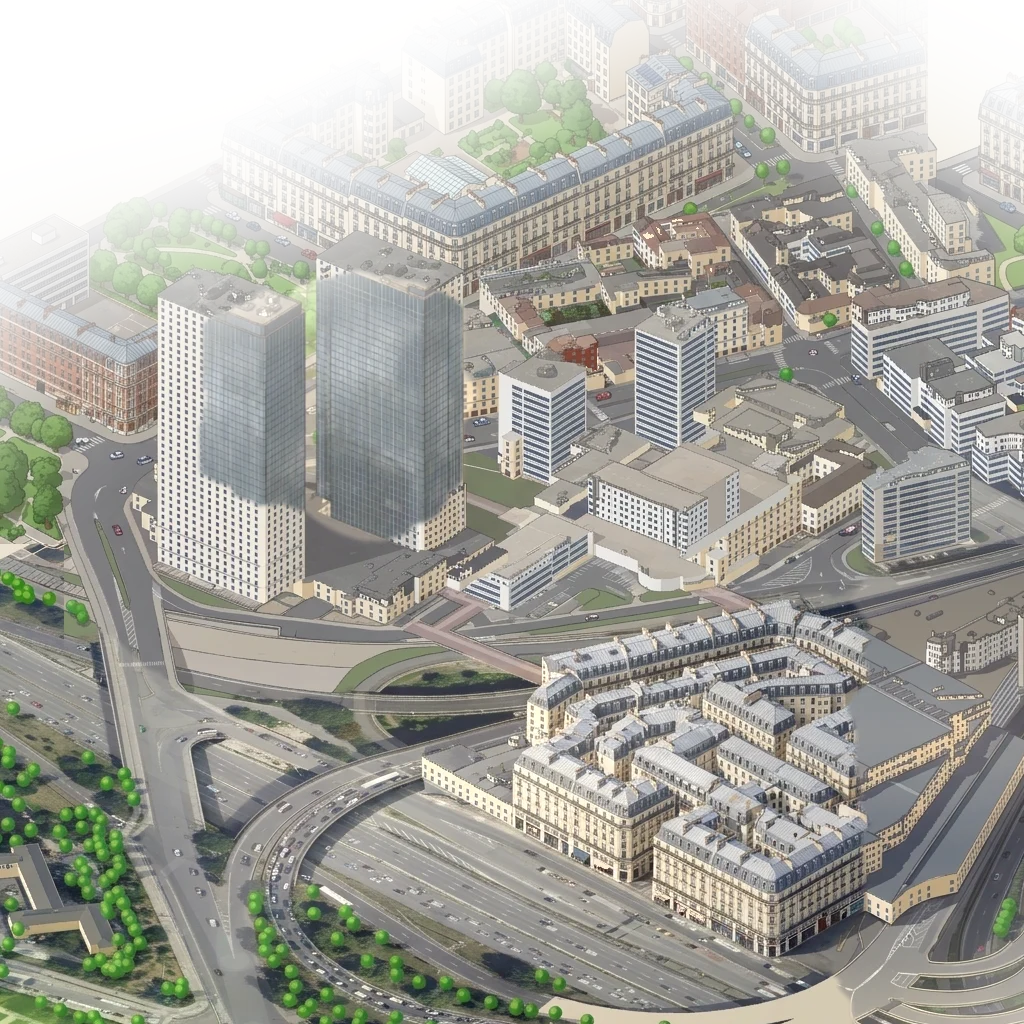
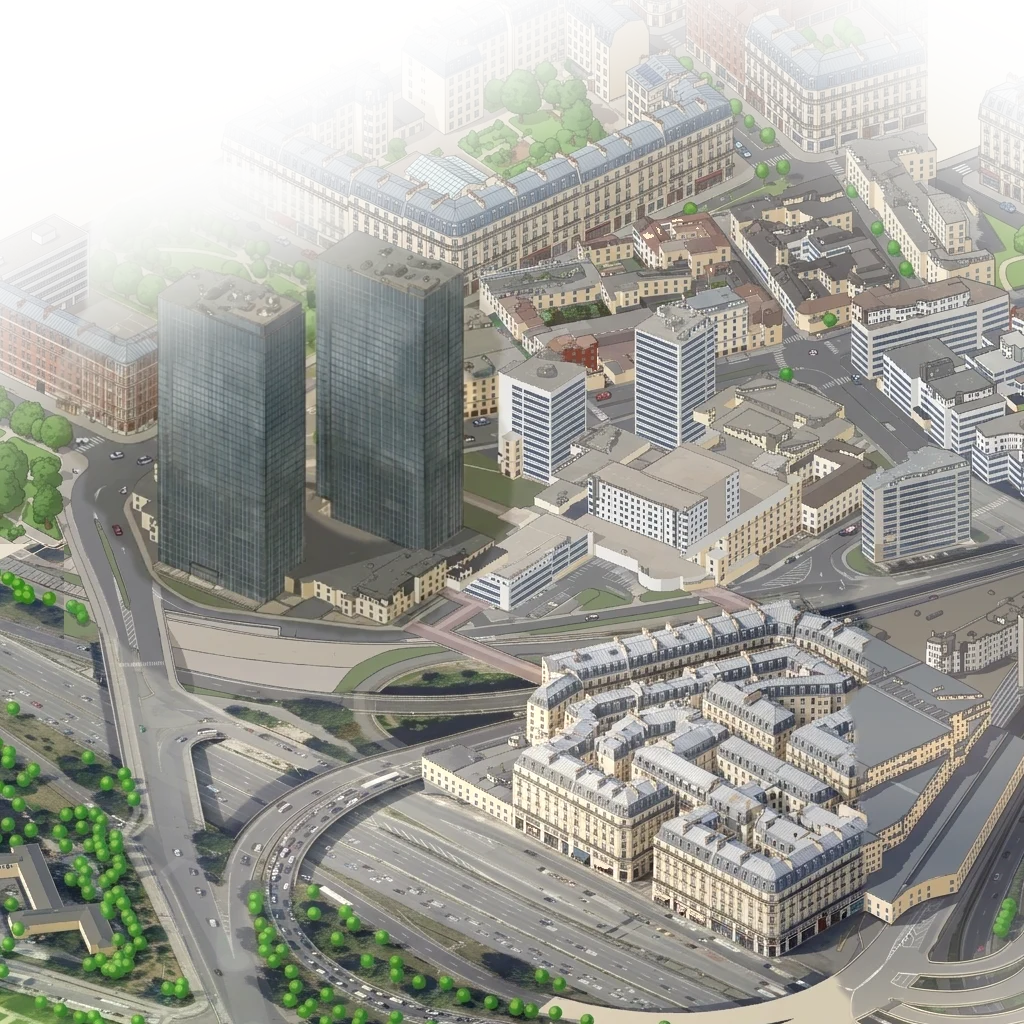
Keep the map responsive while the city loads; a loading pill; Mercuriales
- The city is built in slices of about 25 ms with pauses between, so the
  painted map keeps panning and zooming while it loads: the 2.4 s freeze
  is gone (two ~0.4 s blips remain: parsing the data, starting traffic).
- A station-plate pill at the bottom shows the download, then building
  the city, then starting the traffic.
- Tours Mercuriales repainted dark glass from top to bottom.

Changed region(s): [[0.0625, 0.1875, 0.5, 0.625]]

diff --git a/src/model.ts b/src/model.ts
@@ -301,7 +301,20 @@ function classify(bd: BdRow | undefined, kind: string, h: number, area: number, 
 }
 
 /** Finds, for each building, the BD TOPO record whose centroid lies inside it (tallest wins). */
-function matchBdTopo(rows: BdRow[], rings: Float64Array[][], k: number): (BdRow | undefined)[] {
+/**
+ * Yields to the browser after about 25 ms of work, so the painted map keeps
+ * panning, zooming and drawing while the city is built behind it.
+ */
+function pacer() {
+  let since = performance.now();
+  return async () => {
+    if (performance.now() - since < 25) return;
+    await new Promise((r) => setTimeout(r, 0));
+    since = performance.now();
+  };
+}
+
+async function matchBdTopo(rows: BdRow[], rings: Float64Array[][], k: number, pace: () => Promise<void>): Promise<(BdRow | undefined)[]> {
   const CELL = 40;
   const grid = new Map<string, BdRow[]>();
   for (const r of rows) {
@@ -310,7 +323,9 @@ function matchBdTopo(rows: BdRow[], rings: Float64Array[][], k: number): (BdRow 
     if (!list) grid.set(key, (list = []));
     list.push(r);
   }
-  return rings.map((rs) => {
+  const out: (BdRow | undefined)[] = [];
+  for (const rs of rings) {
+    await pace();
     const o = rs[0];
     let x0 = Infinity, y0 = Infinity, x1 = -Infinity, y1 = -Infinity;
     for (let i = 0; i < o.length; i += 2) {
@@ -327,8 +342,9 @@ function matchBdTopo(rows: BdRow[], rings: Float64Array[][], k: number): (BdRow 
         }
       }
     }
-    return best;
-  });
+    out.push(best);
+  }
+  return out;
 }
 
 function inRing(x: number, y: number, r: Float64Array) {
@@ -449,10 +465,14 @@ export async function loadWorld(url: string, bdtopoUrl?: string, onProgress?: (f
   const ky = (Math.PI / 180) * R;
   const project = (lon: number, lat: number): [number, number] => [(lon - lon0) * kx, -(lat - lat0) * ky];
 
+  const pace = pacer();
   const allRings = raw.buildings.map((b) => b.r.map((r) => Float64Array.from(r, (v) => v / k)));
-  const bdMatch = bdRaw ? matchBdTopo(bdRaw.rows, allRings, k) : [];
+  const bdMatch = bdRaw ? await matchBdTopo(bdRaw.rows, allRings, k, pace) : [];
 
-  const buildings: Building[] = raw.buildings.map((b, bi) => {
+  const buildings: Building[] = [];
+  for (let bi = 0; bi < raw.buildings.length; bi++) {
+    await pace();
+    let b = raw.buildings[bi];
     const rings = allRings[bi];
     const bd = bdMatch[bi];
     // BD TOPO surveyed heights beat our guesses; OSM-tagged heights win over both.
@@ -480,8 +500,8 @@ export async function loadWorld(url: string, bdtopoUrl?: string, onProgress?: (f
     });
     const top = Math.max(h, ...domes.map((d) => d.base + d.drum + d.dome * 1.25));
     const info = bd && bd[6] && !b.i?.start_date ? { ...b.i, start_date: String(bd[6]) } : b.i;
-    return { rings, h, mansard, cx, cy, white: WHITE.has(name), tone: hash(cy * 0.37, cx * 1.91), style, roof, kind, domes, top, info };
-  });
+    buildings.push({ rings, h, mansard, cx, cy, white: WHITE.has(name), tone: hash(cy * 0.37, cx * 1.91), style, roof, kind, domes, top, info });
+  }
   // The Grande Arche is mapped as three overlapping solid outlines; export.ts
   // draws it as the open frame it is, so they stay flat.
   const arche = buildings.find((b) => b.info?.name === GRANDE_ARCHE);
@@ -521,7 +541,10 @@ export async function loadWorld(url: string, bdtopoUrl?: string, onProgress?: (f
   const parks = new Path2D();
   const pitches = new Path2D();
   const cemeteries = new Path2D();
-  for (const p of raw.parks) ringsToPath(p.k === "pitch" ? pitches : p.k === "cemetery" ? cemeteries : parks, p.r, k);
+  for (const p of raw.parks) {
+    await pace();
+    ringsToPath(p.k === "pitch" ? pitches : p.k === "cemetery" ? cemeteries : parks, p.r, k);
+  }
   const water = new Path2D();
   for (const w of raw.water) ringsToPath(water, w, k);
   const onWater = waterGrid(raw.water, k, raw.bounds);
@@ -531,6 +554,7 @@ export async function loadWorld(url: string, bdtopoUrl?: string, onProgress?: (f
   // One stroked path per width so the whole network is a handful of calls.
   const byWidth = new Map<string, { width: number; color: RoadColor; path: Path2D }>();
   for (const r of raw.roads) {
+    await pace();
     const color: RoadColor = r.k === "rail" ? "rail" : ["footway", "path", "cycleway", "pedestrian"].includes(r.k) ? "path" : "road";
     const key = `${r.w}:${color}`;
     let g = byWidth.get(key);
@@ -544,6 +568,7 @@ export async function loadWorld(url: string, bdtopoUrl?: string, onProgress?: (f
   const SHADOW_CELL = 500;
   const shadowCells = new Map<string, { x: number; y: number; path: Path2D }>();
   for (const b of buildings) {
+    await pace();
     const x = Math.floor(b.cx / SHADOW_CELL), y = Math.floor(b.cy / SHADOW_CELL), key = `${x},${y}`;
     let cell = shadowCells.get(key);
     if (!cell) shadowCells.set(key, (cell = { x: x * SHADOW_CELL, y: y * SHADOW_CELL, path: new Path2D() }));
@@ -556,7 +581,9 @@ export async function loadWorld(url: string, bdtopoUrl?: string, onProgress?: (f
   // inside a building.
   const CELL = 50;
   const cells = new Map<string, number[]>();
-  buildings.forEach((b, i) => {
+  for (let i = 0; i < buildings.length; i++) {
+    await pace();
+    const b = buildings[i];
     let x0 = Infinity, y0 = Infinity, x1 = -Infinity, y1 = -Infinity;
     const r0 = b.rings[0];
     for (let j = 0; j < r0.length; j += 2) {
@@ -570,7 +597,7 @@ export async function loadWorld(url: string, bdtopoUrl?: string, onProgress?: (f
         else cells.set(key, [i]);
       }
     }
-  });
+  }
   const indoors = (x: number, y: number) =>
     (cells.get(`${Math.floor(x / CELL)},${Math.floor(y / CELL)}`) ?? []).some((i) => pointInRing(x, y, buildings[i].rings[0]));
   const throughBuilding = (flat: Float64Array) => {
@@ -587,6 +614,7 @@ export async function loadWorld(url: string, bdtopoUrl?: string, onProgress?: (f
   const junctions = new Map<string, number[]>();
   for (const r of raw.roads) {
     if (!STREETS.has(r.k)) continue;
+    await pace();
     const flat = Float64Array.from(r.p, (v) => v / k);
     if (r.k === "service" && throughBuilding(flat)) continue;
     const lane = makeLane(flat, r.w / 2, MAJOR.has(r.k), r.k);
@@ -600,6 +628,7 @@ export async function loadWorld(url: string, bdtopoUrl?: string, onProgress?: (f
   for (const r of raw.roads) {
     const walk = WALKS.has(r.k);
     if (!walk && r.k !== "rail") continue;
+    await pace();
     const flat = Float64Array.from(r.p, (v) => v / k);
     if (walk && throughBuilding(flat)) continue;
     const lane = makeLane(flat, r.w / 2, false, r.k);
@@ -619,12 +648,14 @@ export async function loadWorld(url: string, bdtopoUrl?: string, onProgress?: (f
 
   const trees = new Float64Array(raw.trees.length * 2);
   const treeShadows = new Path2D();
-  raw.trees.forEach(([x, y], i) => {
+  for (let i = 0; i < raw.trees.length; i++) {
+    if (i % 2000 === 0) await pace();
+    const [x, y] = raw.trees[i];
     trees[i * 2] = x / k;
     trees[i * 2 + 1] = y / k;
     treeShadows.moveTo(x / k + 4.5, y / k + 1);
     treeShadows.ellipse(x / k + 1, y / k + 1, 3.5, 3.5, 0, 0, Math.PI * 2);
-  });
+  }
 
 
   return {

diff --git a/src/main.ts b/src/main.ts
@@ -569,6 +569,22 @@ function showLoading(f: number | null) {
   el.querySelector(".what")!.textContent = f < 1 ? `Downloading the city · ${Math.round(f * 100)}%` : "Building 100,000 buildings…";
 }
 
+/**
+ * The pill shown while the city loads behind the painting: download progress
+ * (0–1), then building (1), then starting the traffic (2), then gone (null).
+ */
+function showStreets(f: number | null) {
+  const el = $("streets");
+  if (f == null) {
+    el.classList.add("done");
+    setTimeout(() => (el.hidden = true), 400);
+    return;
+  }
+  el.hidden = false;
+  el.querySelector(".t")!.textContent = f < 1 ? "Loading streets & traffic" : f < 2 ? "Building the city" : "Starting the traffic";
+  el.querySelector(".pct")!.textContent = f < 1 ? `${Math.round(f * 100)}%` : "";
+}
+
 // Vercel Web Analytics: page views, no cookies.
 inject();
 
@@ -592,16 +608,15 @@ async function main() {
   }
 
   const [w, transit, pois] = await Promise.all([
-    loadWorld("/data/paris.json", "/data/paris-bdtopo.json", (f) => {
-      if (!painted) return showLoading(f);
-      $("stats").textContent = f < 1 ? `Loading the streets · ${Math.round(f * 100)}%` : "Starting the traffic…";
-    }),
+    loadWorld("/data/paris.json", "/data/paris-bdtopo.json", (f) => (painted ? showStreets(f) : showLoading(f))),
     loadTransit("/data/paris-transit.json"),
     fetch("/data/paris-pois.json").then((r) => (r.ok ? r.json() : { cafes: [] })).catch(() => ({ cafes: [] })),
   ]);
   transit.cafes = (pois.cafes as [number, number, number, number][]).map(([x, y, kind, out]) => [x / 10, y / 10, kind, out]);
   world = w;
   if (new URLSearchParams(location.search).has("export")) installExport(world);
+  showStreets(2);
+  await new Promise((r) => requestAnimationFrame(() => setTimeout(r, 0)));
   traffic = new Traffic(world, transit);
   Sprites.load().then((sp) => traffic.setSprites(sp));
   const n = traffic.count;
@@ -613,6 +628,7 @@ async function main() {
   requestRender();
   requestAnimationFrame(tick);
   showLoading(null);
+  showStreets(null);
 }
 
 main().catch((err) => {

diff --git a/src/style.css b/src/style.css
@@ -593,3 +593,53 @@ h1 {
   letter-spacing: 0.04em;
   color: var(--muted);
 }
+
+/* ---- Streets loading: a station-plate pill while the city loads behind the painting --- */
+.streets {
+  position: fixed;
+  left: 50%;
+  bottom: 38px;
+  z-index: 5;
+  transform: translateX(-50%);
+  display: flex;
+  align-items: center;
+  gap: 10px;
+  padding: 8px 16px 8px 12px;
+  border-radius: 99px;
+  background: var(--enamel);
+  box-shadow: inset 0 0 0 2px var(--enamel), inset 0 0 0 3.5px rgba(255, 255, 255, 0.85), 0 6px 18px rgba(20, 24, 50, 0.25);
+  color: #fff;
+  font: 600 14px "Barlow Condensed", system-ui, sans-serif;
+  letter-spacing: 0.06em;
+  text-transform: uppercase;
+  white-space: nowrap;
+  pointer-events: none;
+  transition: opacity 0.4s;
+}
+
+.streets.done {
+  opacity: 0;
+}
+
+.streets .spin {
+  width: 14px;
+  height: 14px;
+  border-radius: 50%;
+  border: 2.5px solid rgba(255, 255, 255, 0.3);
+  border-top-color: var(--jade);
+  /* A transform animation: it keeps turning even while the page is busy. */
+  animation: spin 0.8s linear infinite;
+}
+
+.streets .pct {
+  font-family: "IBM Plex Mono", monospace;
+  font-weight: 500;
+  font-size: 12px;
+  opacity: 0.8;
+}
+
+@keyframes spin {
+  to {
+    transform: rotate(360deg);
+  }
+}

diff --git a/index.html b/index.html
@@ -72,6 +72,10 @@
       <dl id="info-body"></dl>
     </aside>
 
+    <div class="streets" id="streets" role="status" aria-live="polite" hidden>
+      <span class="spin" aria-hidden="true"></span><span class="t">Loading streets &amp; traffic</span><span class="pct"></span>
+    </div>
+
     <footer class="credit">
       Drag to pan · scroll to zoom · click a building · data ©
       <a href="https://www.openstreetmap.org/copyright" target="_blank" rel="noopener">OpenStreetMap</a> contributors,
